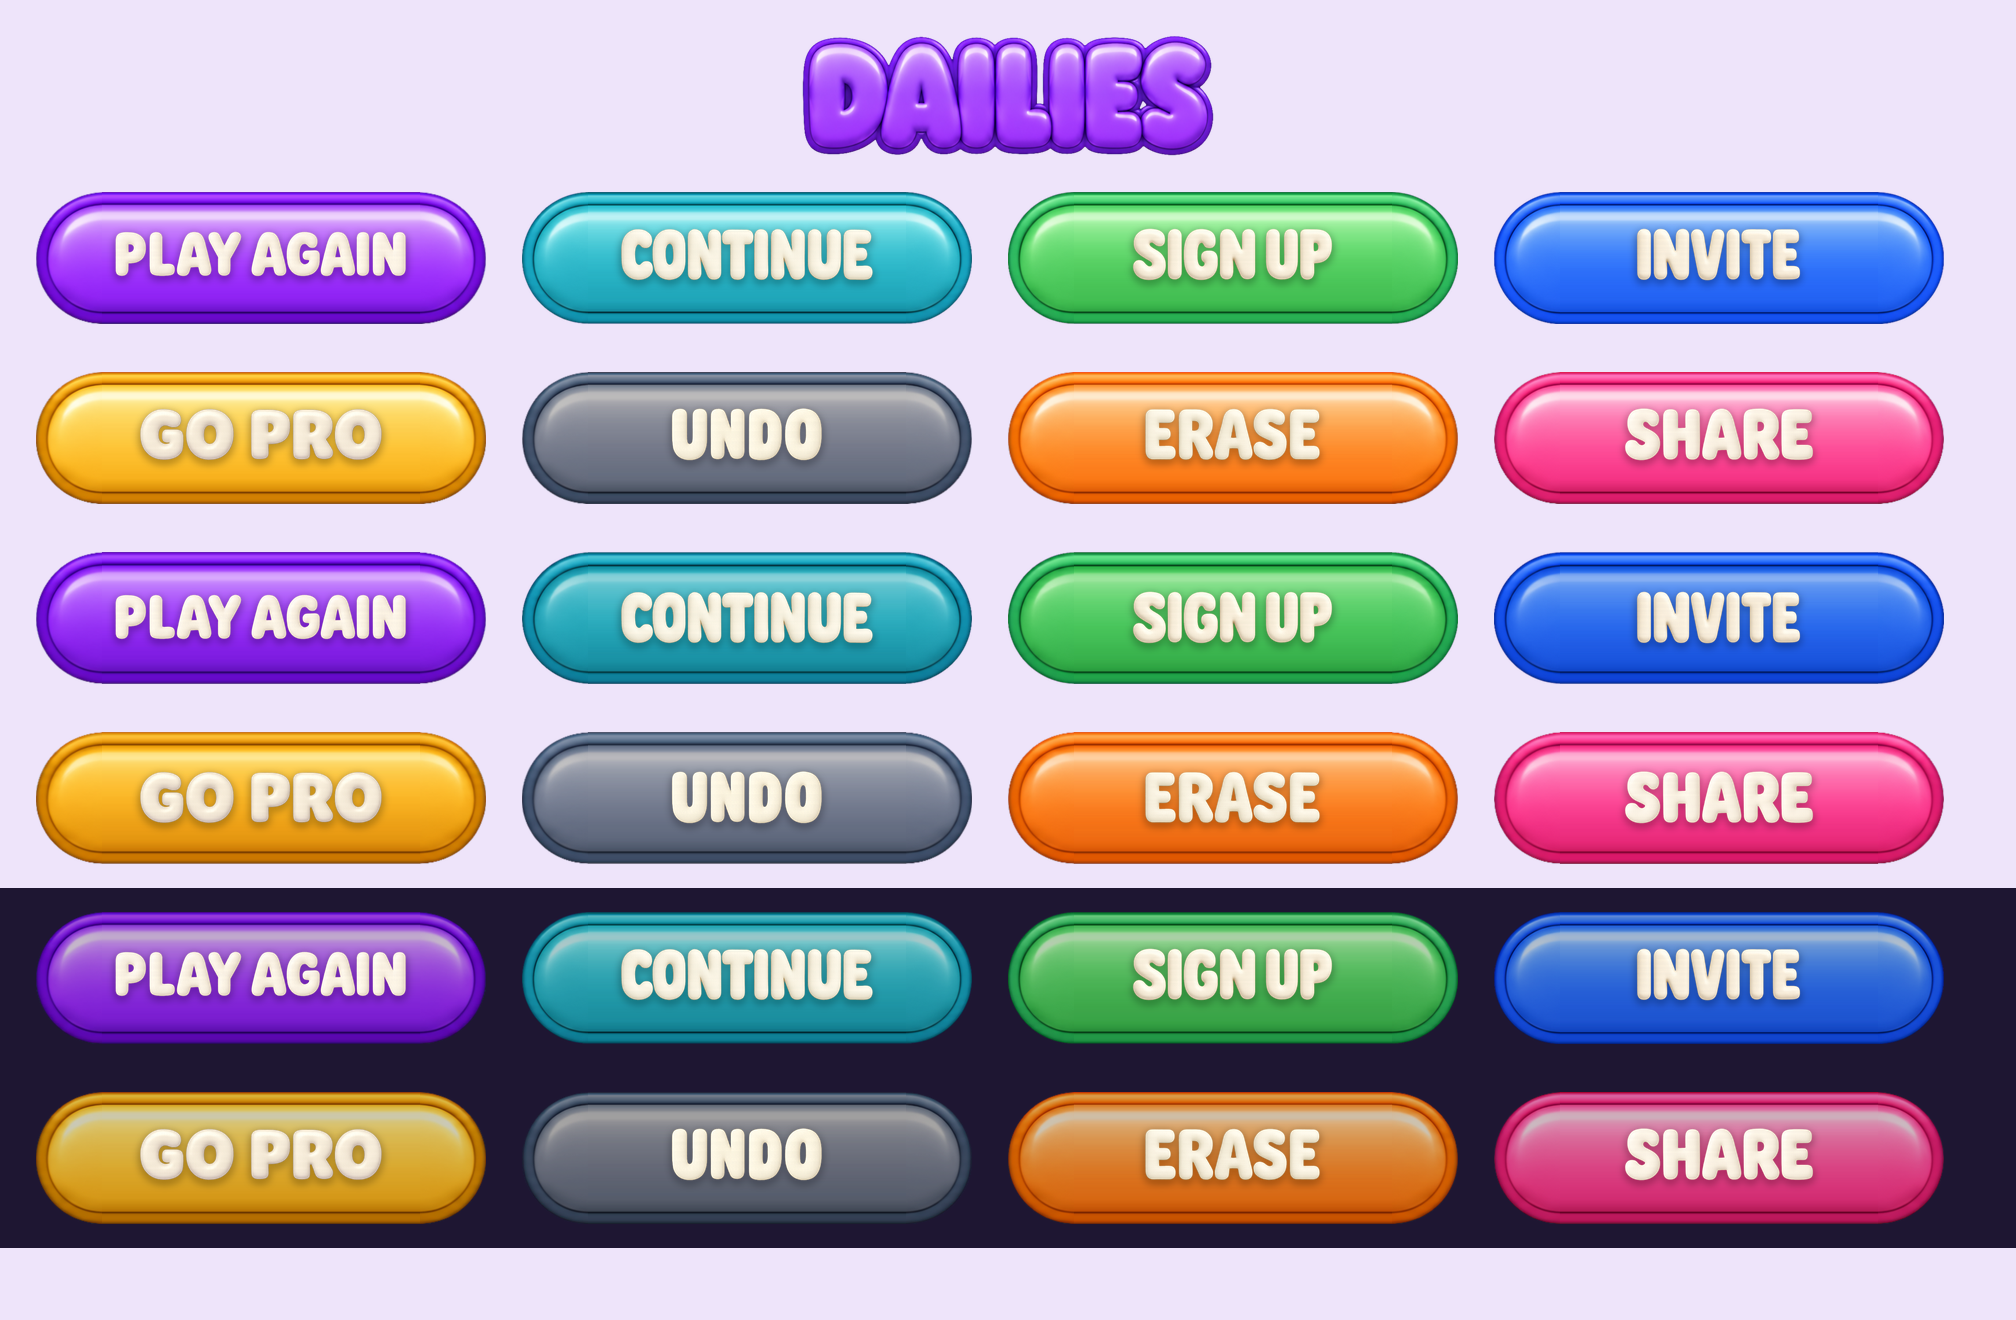
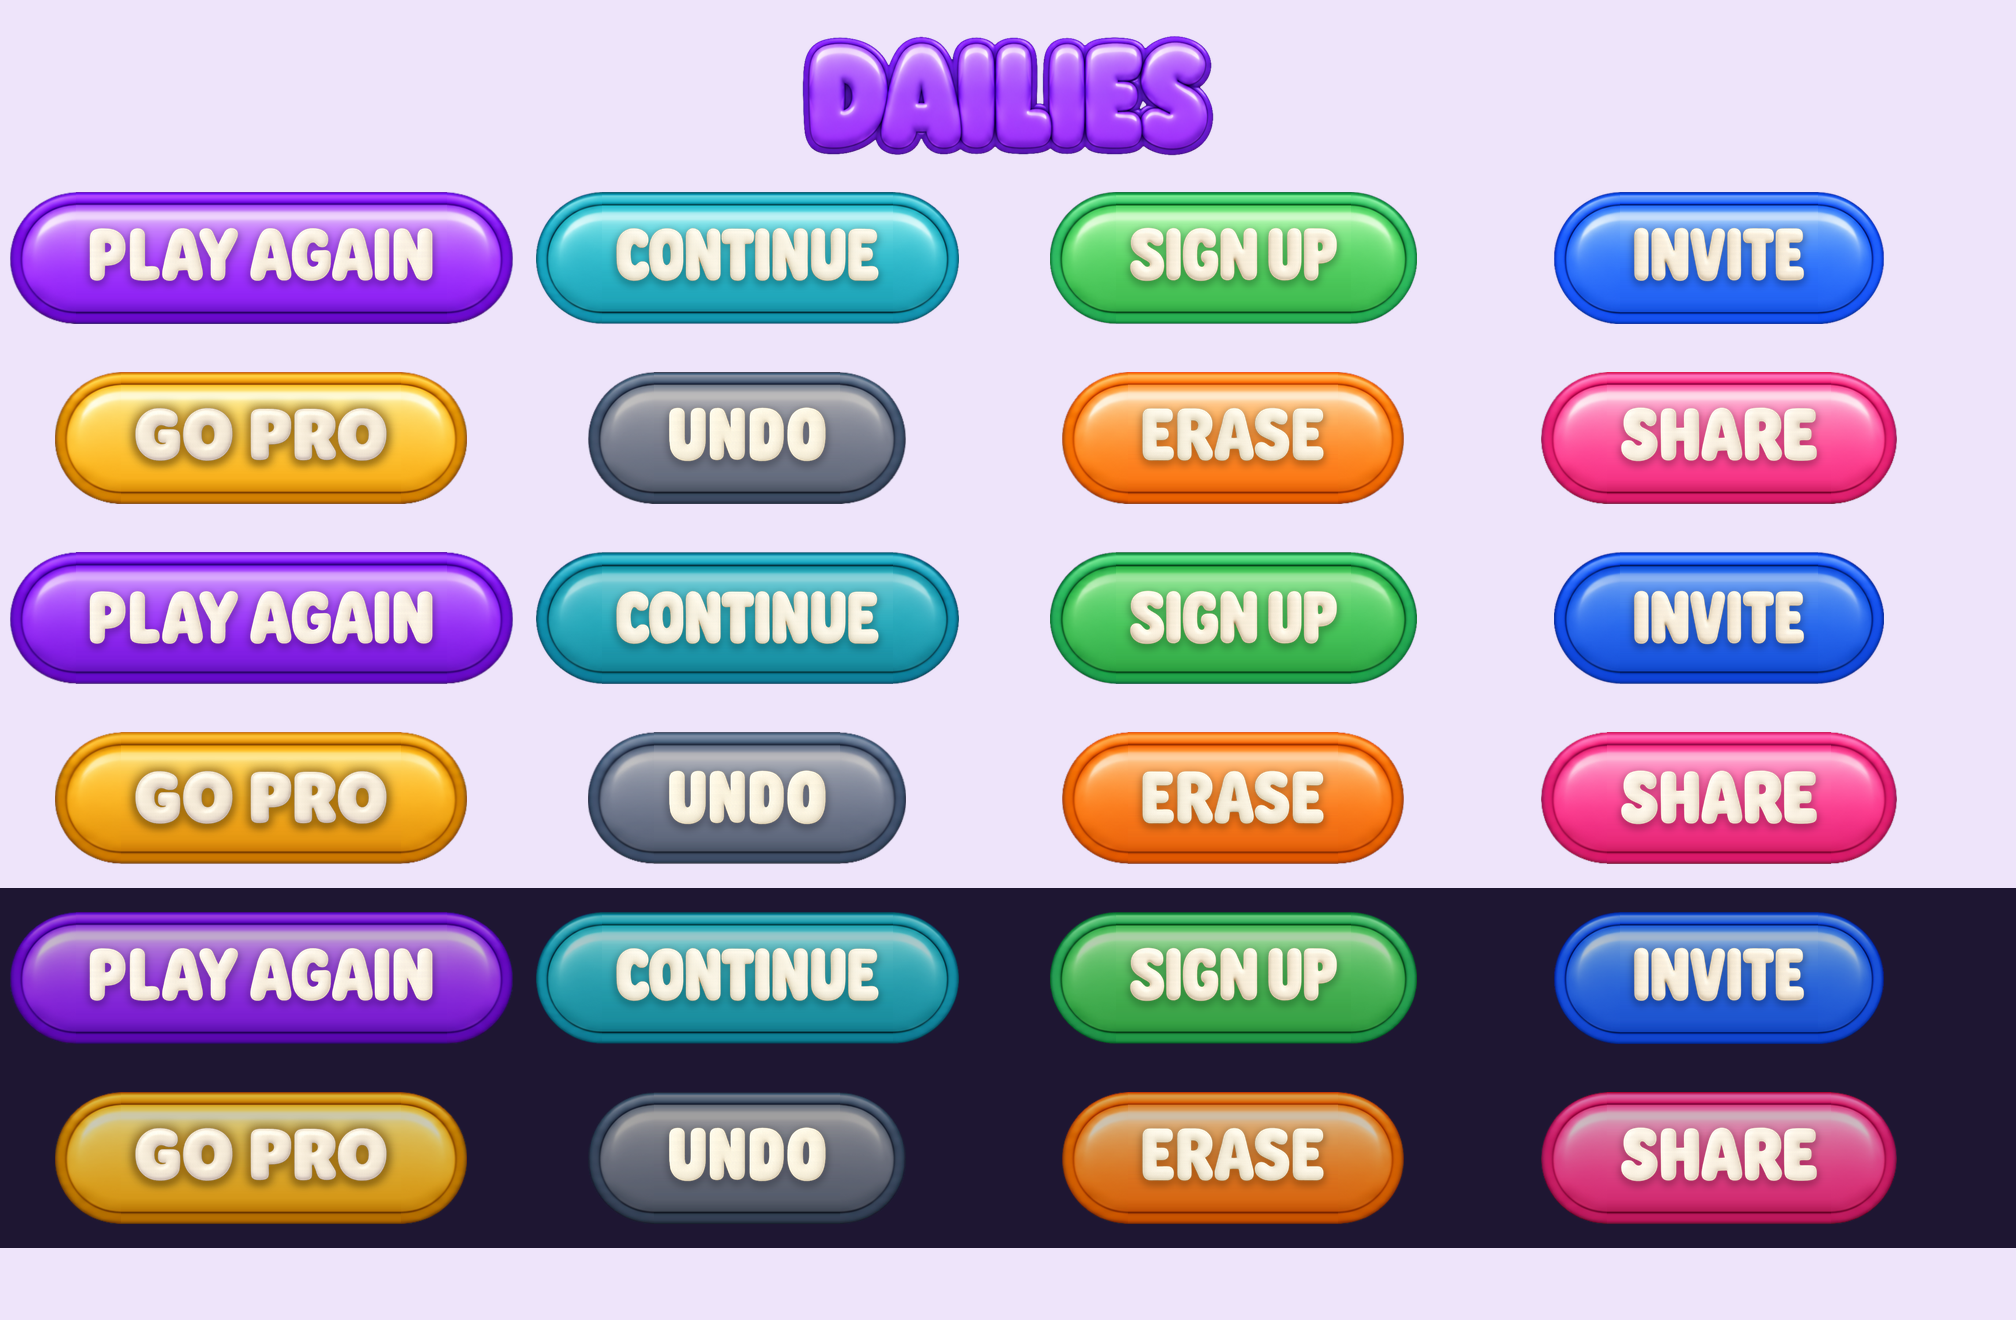
Labels: consistency regen (outliers rejoined to one line), same-cap-height sizing rule + gold amber halo in the button spec, all-labels re-rendered; pocket titles GHOST / WORD CHAIN / PICK A FRIEND via the API (input fidelity high)

diff --git a/docs/design/brand/buttons/labels/make-board.py b/docs/design/brand/buttons/labels/make-board.py
@@ -26,24 +26,37 @@ def skin(color, h, w, state='', dark=False):
     return out
 
 
-def button(color, slug, height_pt=44, width_pt=150, scale=3, state='', dark=False):
-    h, w = round(height_pt * scale), round(width_pt * scale)
-    b = skin(color, h, w, state, dark)
-    lab = Image.open(os.path.join(HERE, slug + '.png')).convert('RGBA')
-    inset = max(SPEC['capInsetOfHeight'] * h, SPEC['minPadPt'] * scale * height_pt / 44)
-    lh = 0.40 * h                                        # cap-height-ish of the lettering
-    s = min(lh / lab.height, (w - 2 * inset) / lab.width)
-    lab = lab.resize((max(1, round(lab.width * s)), max(1, round(lab.height * s))), Image.LANCZOS)
-    cy = h * SPEC['labelCenterOfHeight'] + (SPEC['pressedDropPt'] * scale if state else 0)
-    # the same soft same-hue drop as the live-text fallback (labels.json): a blurred tint of the label's
-    # alpha in the button's deeper color, 1 pt down, under the art — it lifts cream off the light skins (gold)
+def button(color, slug, height_pt=44, width_pt=None, scale=3, state='', dark=False):
+    """Label art at the SAME cap height (artLabelCapOfHeight × height); the button widens to fit (README)."""
     from PIL import ImageFilter
-    hexc = json.load(open(os.path.join(CAST, 'labels.json')))['labels'][color]['shadow']
-    sh = Image.new('RGBA', b.size)
-    tint = Image.new('RGBA', lab.size, tuple(int(hexc[i:i + 2], 16) for i in (1, 3, 5)) + (255,))
-    tint.putalpha(lab.getchannel('A').point(lambda v: int(v * SPEC['shadowAlpha'] * 1.6)))
+    labels = json.load(open(os.path.join(CAST, 'labels.json')))['labels']
+    h = round(height_pt * scale)
+    lab = Image.open(os.path.join(HERE, slug + '.png')).convert('RGBA')
+    lh = round(SPEC['artLabelCapOfHeight'] * h)
+    lab = lab.resize((max(1, round(lab.width * lh / lab.height)), lh), Image.LANCZOS)
+    inset = max(SPEC['capInsetOfHeight'] * h, SPEC['minPadPt'] * scale * height_pt / 44)
+    need = lab.width + 2 * inset
+    w = max(round((width_pt or 0) * scale), round(need))
+    b = skin(color, h, w, state, dark)
+    cy = h * SPEC['labelCenterOfHeight'] + (SPEC['pressedDropPt'] * scale if state else 0)
     pos = (round((w - lab.width) / 2), round(cy - lab.height / 2))
-    sh.alpha_composite(tint, (pos[0], pos[1] + round(SPEC['shadowYPt'] * scale)))
+    a = lab.getchannel('A')
+
+    def tinted(hexc, alpha):
+        t = Image.new('RGBA', lab.size, tuple(int(hexc[i:i + 2], 16) for i in (1, 3, 5)) + (255,))
+        t.putalpha(a.point(lambda v: int(v * alpha)))
+        return t
+    halo = labels[color].get('artHalo')
+    if halo:
+        layer = Image.new('RGBA', b.size)
+        t = tinted(halo['color'], halo['alpha'])
+        pad = round(halo['spreadPt'] * scale) * 2 + 1
+        ta = t.getchannel('A').filter(ImageFilter.MaxFilter(pad if pad % 2 else pad + 1))
+        t.putalpha(ta)
+        layer.alpha_composite(t, pos)
+        b.alpha_composite(layer.filter(ImageFilter.GaussianBlur(halo['blurPt'] * scale)))
+    sh = Image.new('RGBA', b.size)
+    sh.alpha_composite(tinted(labels[color]['shadow'], min(1, SPEC['shadowAlpha'] * 1.6)), (pos[0], pos[1] + round(SPEC['shadowYPt'] * scale)))
     b.alpha_composite(sh.filter(ImageFilter.GaussianBlur(SPEC['shadowBlurPt'] * scale / 1.5)))
     b.alpha_composite(lab, pos)
     return b
@@ -66,22 +79,27 @@ def board(scale, out):
         for i, (c, slug) in enumerate(BTNS):
             x = (12 + (i % 4) * (cellw + gap)) * scale
             yy = y + (i // 4) * 60 * scale
-            img.alpha_composite(button(c, slug, 44, cellw, scale, state, dark), (round(x), round(yy)))
+            bt = button(c, slug, 44, None, scale, state, dark)
+            img.alpha_composite(bt, (round(x + (cellw * scale - bt.width) / 2), round(yy)))
         y += 120 * scale
     img.convert('RGB').save(out, optimize=True)
     print('wrote', out, img.size)
 
 
-def all_labels(out):
+def all_labels(out, scale=2):
+    """Every label as the app draws it: 44 pt purple button, same cap height, the button widened to fit."""
     slugs = sorted(f[:-4] for f in os.listdir(HERE) if f.endswith('.png') and not f.startswith(('board', 'all-')))
-    cols, cw, ch = 4, 360, 110
-    img = Image.new('RGBA', (cols * cw + 20, ((len(slugs) + cols - 1) // cols) * (ch + 26) + 20), (250, 247, 255, 255))
+    btns = [(s, button('purple', s, 44, None, scale)) for s in slugs]
+    W, x, y, rowh = 1500, 20, 20, round(44 * scale) + 34
+    img = Image.new('RGBA', (W, 2000), (250, 247, 255, 255))
     d = ImageDraw.Draw(img)
-    for i, s in enumerate(slugs):
-        x, y = 10 + (i % cols) * cw, 10 + (i // cols) * (ch + 26)
-        b = button('purple', s, 44, 115, 3 * 110 / 132)
-        img.alpha_composite(b.resize((cw - 20, ch)), (x, y))
-        d.text((x + 4, y + ch + 4), s, font=F(16), fill=(60, 40, 95))
+    for s, b in btns:
+        if x + b.width > W - 20:
+            x, y = 20, y + rowh
+        img.alpha_composite(b, (x, y))
+        d.text((x + 6, y + b.height + 4), s, font=F(15), fill=(60, 40, 95))
+        x += b.width + 18
+    img = img.crop((0, 0, W, y + rowh + 10))
     img.convert('RGB').save(out, optimize=True)
     print('wrote', out, len(slugs), 'labels')
 

diff --git a/docs/design/brand/openai-image.py b/docs/design/brand/openai-image.py
@@ -5,7 +5,7 @@ model's list prices); the cap is checked against that log BEFORE each call. Bill
 The key is read from ~/.wordocious-openai-key and never printed.
 
   python3 openai-image.py gen  out.png "prompt" [--size 1536x1024] [--quality medium]
-  python3 openai-image.py edit out.png "prompt" ref1.png [ref2.png ...] [--size ...] [--quality ...]
+  python3 openai-image.py edit out.png "prompt" ref1.png [ref2.png ...] [--size ...] [--quality ...] [--fidelity high]
 """
 import base64, datetime, os, re, sys
 import requests
@@ -39,7 +39,7 @@ def log(kind, out, size, quality, usage, cost, note=''):
 
 def main():
     args = sys.argv[1:]
-    opts = {'--size': '1536x1024', '--quality': 'medium'}
+    opts = {'--size': '1536x1024', '--quality': 'medium', '--fidelity': ''}
     for k in list(opts):
         if k in args:
             i = args.index(k); opts[k] = args[i + 1]; del args[i:i + 2]
@@ -54,6 +54,8 @@ def main():
     if kind == 'gen':
         r = requests.post('https://api.openai.com/v1/images/generations', headers=h, json=common, timeout=300)
     else:
+        if opts['--fidelity']:
+            common['input_fidelity'] = opts['--fidelity']
         files = [('image[]', (os.path.basename(p), open(p, 'rb'), 'image/png')) for p in refs]
         r = requests.post('https://api.openai.com/v1/images/edits', headers=h, data={k: str(v) for k, v in common.items()},
                           files=files, timeout=300)

diff --git a/docs/design/brand/API-SPEND-2026-10-03.md b/docs/design/brand/API-SPEND-2026-10-03.md
@@ -18,3 +18,11 @@ Prices (gpt-image-1, per 1M tokens): text in $5, image in $10, image out $40. Co
 | 17:58:00 | edit | gpt-image-1 | 1024x1536 | medium | buttons/labels/raw/S2.png | 252 / 323 / 1584 | $0.0678 |
 | 17:59:09 | edit | gpt-image-1 | 1536x1024 | medium | buttons/labels/raw/L4.png | 247 / 323 / 1568 | $0.0672 |
 | 17:59:31 | edit | gpt-image-1 | 1536x1024 | medium | buttons/labels/raw/L5.png | 243 / 323 / 1568 | $0.0672 |
+| 18:03:01 | edit | gpt-image-1 | 1536x1024 | medium | titles/cast-colors/raw/pk-2.png | 224 / 323 / 1568 | $0.0671 |
+| 18:04:24 | edit | gpt-image-1 | 1024x1536 | medium | buttons/labels/raw/R1.png | 194 / 194 / 1584 | $0.0663 |
+| 18:05:43 | edit | gpt-image-1 | 1536x1024 | medium | buttons/labels/raw/R1.png | 214 / 517 / 1568 | $0.0690 |
+| 18:06:01 | edit | gpt-image-1 | 1536x1024 | medium | buttons/labels/raw/R2.png | 215 / 517 / 1568 | $0.0690 |
+| 18:06:21 | edit | gpt-image-1 | 1536x1024 | medium | buttons/labels/raw/R3.png | 212 / 517 / 1568 | $0.0689 |
+| 18:06:42 | edit | gpt-image-1 | 1536x1024 | medium | buttons/labels/raw/R4.png | 212 / 517 / 1568 | $0.0689 |
+| 18:10:47 | edit | gpt-image-1 | 1536x1024 | medium | titles/cast-colors/raw/pk-3.png | 291 / 646 / 1568 | $0.0706 |
+| 18:11:50 | edit | gpt-image-1 | 1536x1024 | medium | titles/cast-colors/raw/pk-4.png | 295 / 13062 / 1568 | $0.1948 |

diff --git a/docs/design/brand/buttons/cast/README.md b/docs/design/brand/buttons/cast/README.md
@@ -18,3 +18,12 @@ Heights: s = 32 pt, m = 44 pt, l = 56 pt (images are @3x). Text-free.
 - Shadow: same color, **35%**, 1 pt down, 2 pt blur.
 
 Reference renderer: `button_render.py` (`preview-1x.png`, `preview-3x.png`).
+
+## Label ART (preferred) — buttons/labels/<slug>.png
+- The cream soft-bubble labels (no rim) are drawn on the skin instead of live text wherever the label is fixed.
+- **Same cap height everywhere:** the label image is drawn at **0.42 × button height** (image height = cap height).
+  The button **widens** to fit: width = label width + 2 × max(0.6 × height, 14 pt @ 44). Only in a fixed-width slot
+  does the label shrink (keeping the inset). Never scale a label up to fill the button.
+- Shadow: the label's alpha tinted in the color's `shadow`, 1 pt down, blurred 2 pt, 35% × 1.6.
+- **Gold only:** an extra deeper-amber halo (`labels.gold.artHalo`: #9a5a00, 55%, 0.75 pt spread, 1.75 pt blur) behind the label.
+- Dynamic labels (names, counts, prices, loading states) use the live-text fallback above.
